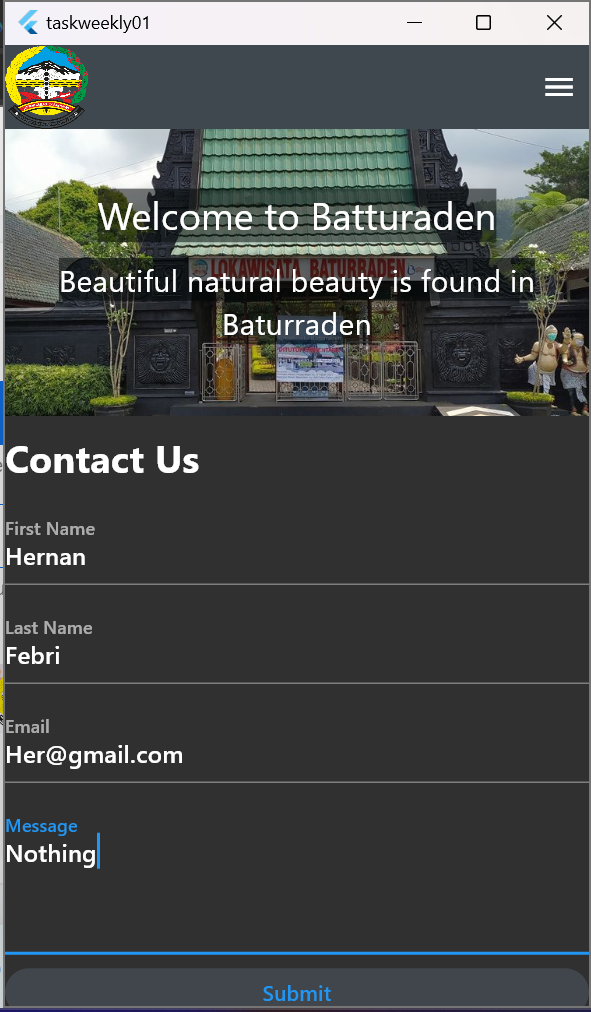
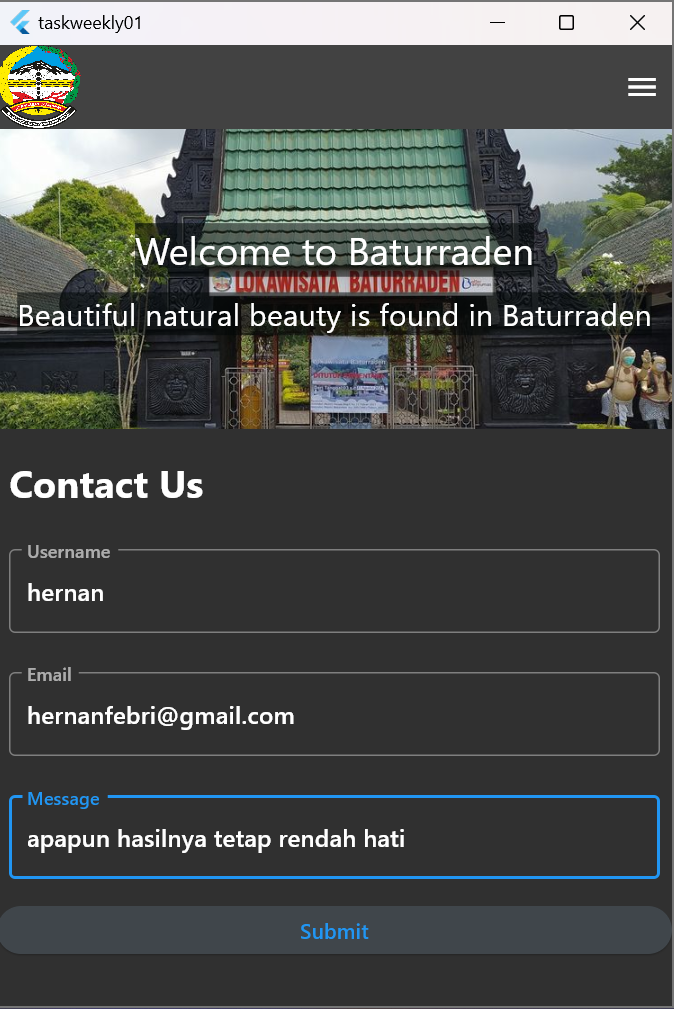
Pembaruan Weekly 1

diff --git a/Weekly1/praktikum/taskweekly01/lib/screens/home_screen.dart b/Weekly1/praktikum/taskweekly01/lib/screens/home_screen.dart
@@ -9,20 +9,16 @@ class HomeScreen extends StatefulWidget {
 }
 
 class _HomeScreenState extends State<HomeScreen> {
-  final formKey = GlobalKey<FormState>();
-  var pesan = {
-    'fname': '',
-    'lname': '',
-    'email': '',
-    'msg': '',
-  };
+  final _uName = TextEditingController();
+  final _email = TextEditingController();
+  final _msg = TextEditingController();
 
   @override
   Widget build(BuildContext context) {
     return Scaffold(
       appBar: AppBar(
         leading: Image.network(
-          "https://o.remove.bg/downloads/76358c4c-c586-4b2b-8ed8-a7ee76a56a74/12.BANYUMAS-removebg-preview.png",
+          "https://1.bp.blogspot.com/-334T0rwvq-s/XU5a7R3Fi2I/AAAAAAAAAZU/6Dj7U8SGdagO7EW_hj3e-luObPa83b43wCLcBGAs/s1600/12.BANYUMAS.png",
           fit: BoxFit.fill,
           width: 10,
           height: 10,
@@ -81,7 +77,7 @@ class _HomeScreenState extends State<HomeScreen> {
                 mainAxisAlignment: MainAxisAlignment.center,
                 children: const [
                   Text(
-                    "Welcome to Batturaden",
+                    "Welcome to Baturraden",
                     textAlign: TextAlign.center,
                     style: TextStyle(
                       fontSize: 25,
@@ -107,81 +103,52 @@ class _HomeScreenState extends State<HomeScreen> {
             const SizedBox(
               height: 10,
             ),
-            const Text(
-              "Contact Us",
-              style: TextStyle(
-                fontSize: 25,
-                fontWeight: FontWeight.bold,
+            const Padding(
+              padding: EdgeInsets.all(8.0),
+              child: Text(
+                "Contact Us",
+                style: TextStyle(
+                  fontSize: 25,
+                  fontWeight: FontWeight.bold,
+                ),
               ),
             ),
             const SizedBox(
               height: 10,
             ),
-            TextFormField(
-              decoration: const InputDecoration(label: Text("First Name")),
-              validator: (value) {
-                if (value == null || value.isEmpty) {
-                  return "Silahkan input First Name yang valid";
-                }
-                return null;
-              },
-              onSaved: (newValue) {
-                if (newValue != null) pesan['fName'] = newValue;
-              },
-              keyboardType: TextInputType.name,
-              textInputAction: TextInputAction.next,
+            Container(
+              margin: const EdgeInsets.all(8.0),
+              child: TextFormField(
+                controller: _uName,
+                decoration: const InputDecoration(
+                  label: Text("Username"),
+                  border: OutlineInputBorder(),
+                ),
+              ),
             ),
             const SizedBox(
               height: 10,
             ),
-            TextFormField(
-              decoration: const InputDecoration(label: Text("Last Name")),
-              validator: (value) {
-                if (value == null || value.isEmpty) {
-                  return "Silahkan input Last Name yang valid";
-                }
-                return null;
-              },
-              onSaved: (newValue) {
-                if (newValue != null) pesan['lName'] = newValue;
-              },
-              keyboardType: TextInputType.name,
-              textInputAction: TextInputAction.next,
+            Container(
+              margin: const EdgeInsets.all(8.0),
+              child: TextFormField(
+                controller: _email,
+                decoration: const InputDecoration(
+                  label: Text("Email"),
+                  border: OutlineInputBorder(),
+                ),
+              ),
             ),
             const SizedBox(
               height: 10,
             ),
-            TextFormField(
-              decoration: const InputDecoration(label: Text("Email")),
-              validator: (value) {
-                if (value == null || value.isEmpty) {
-                  return "Silahkan input Email yang valid";
-                }
-                return null;
-              },
-              onSaved: (newValue) {
-                if (newValue != null) pesan['email'] = newValue;
-              },
-              keyboardType: TextInputType.name,
-              textInputAction: TextInputAction.next,
-            ),
-            const SizedBox(
-              height: 10,
-            ),
-            TextFormField(
-              maxLines: 3,
-              decoration: const InputDecoration(label: Text("Message")),
-              validator: (value) {
-                if (value == null || value.isEmpty) {
-                  return "Silahkan input Message yang valid";
-                }
-                return null;
-              },
-              onSaved: (newValue) {
-                if (newValue != null) pesan['msg'] = newValue;
-              },
-              keyboardType: TextInputType.name,
-              textInputAction: TextInputAction.next,
+            Container(
+              margin: const EdgeInsets.all(8.0),
+              child: TextFormField(
+                controller: _msg,
+                decoration: const InputDecoration(
+                    label: Text("Message"), border: OutlineInputBorder()),
+              ),
             ),
             const SizedBox(
               height: 10,
@@ -191,16 +158,18 @@ class _HomeScreenState extends State<HomeScreen> {
                 showDialog(
                   context: context,
                   builder: (context) => AlertDialog(
-                    content: const Text('Are you sure?'),
-                    actions: [
-                      TextButton(
-                        onPressed: () {
-                          Navigator.pop(context);
-                        },
-                        child: const Text('NO'),
+                    content: SizedBox(
+                      height: 150,
+                      width: 100,
+                      child: Column(
+                        mainAxisAlignment: MainAxisAlignment.center,
+                        children: [
+                          Text('Username :  ${_uName.text}'),
+                          Text('Email :  ${_email.text}'),
+                          Text('Message :  ${_msg.text}'),
+                        ],
                       ),
-                      TextButton(onPressed: () {}, child: const Text('YES'))
-                    ],
+                    ),
                   ),
                 );
               },
